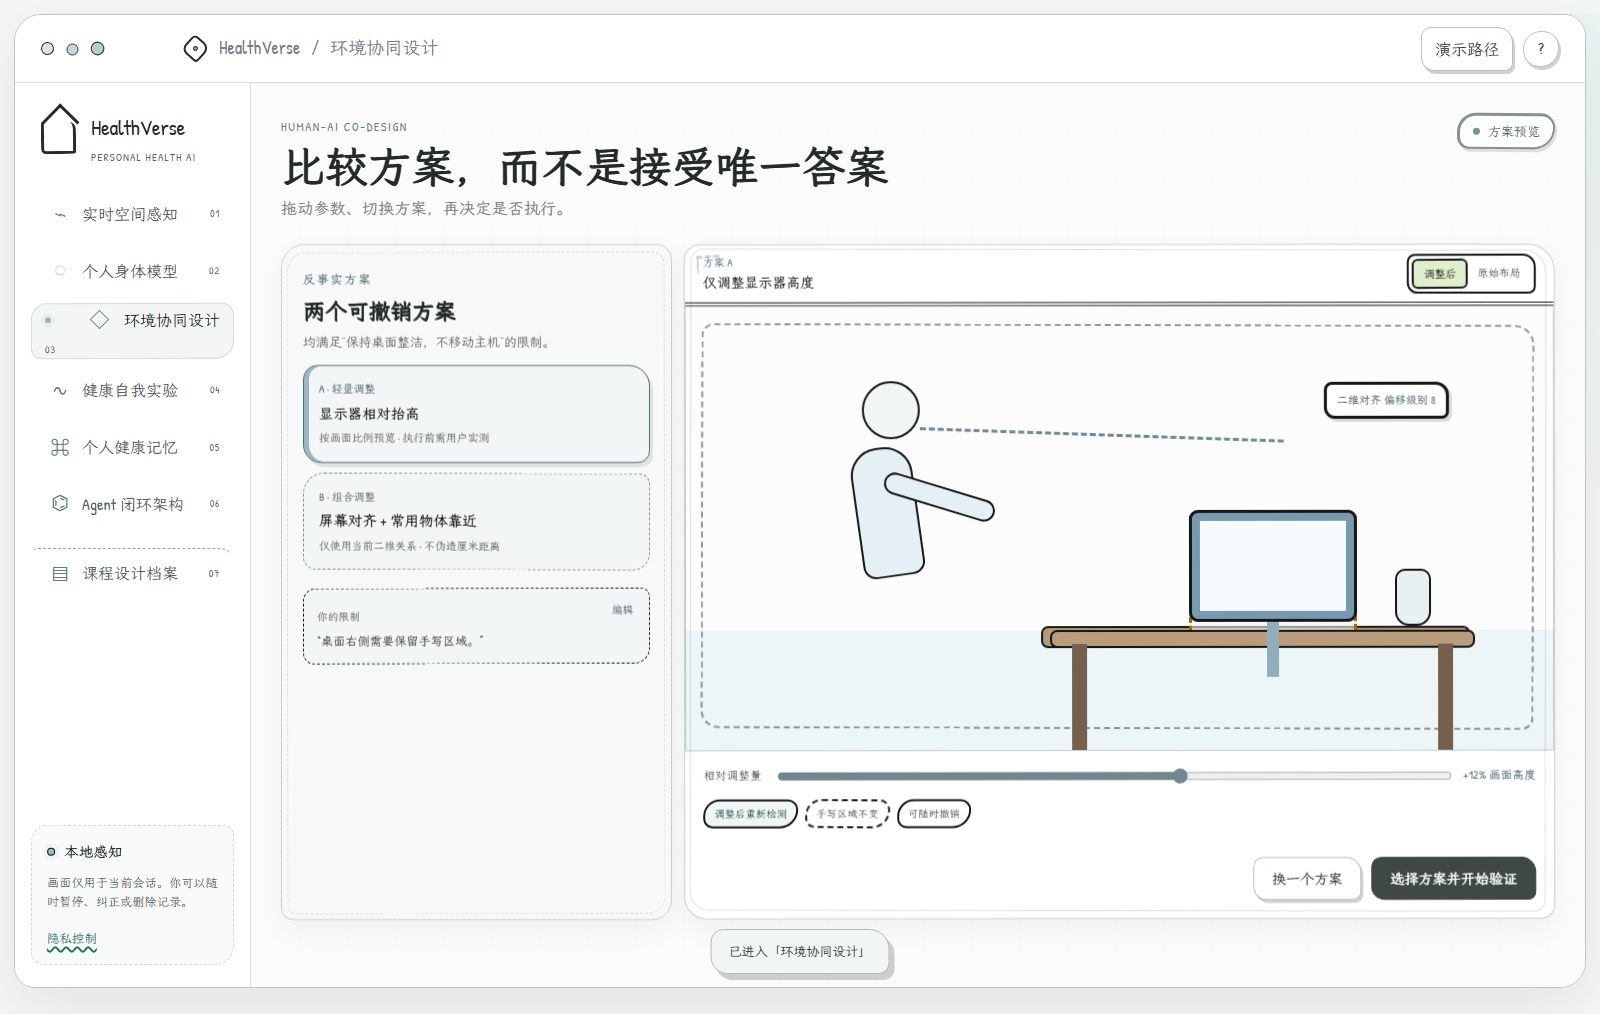
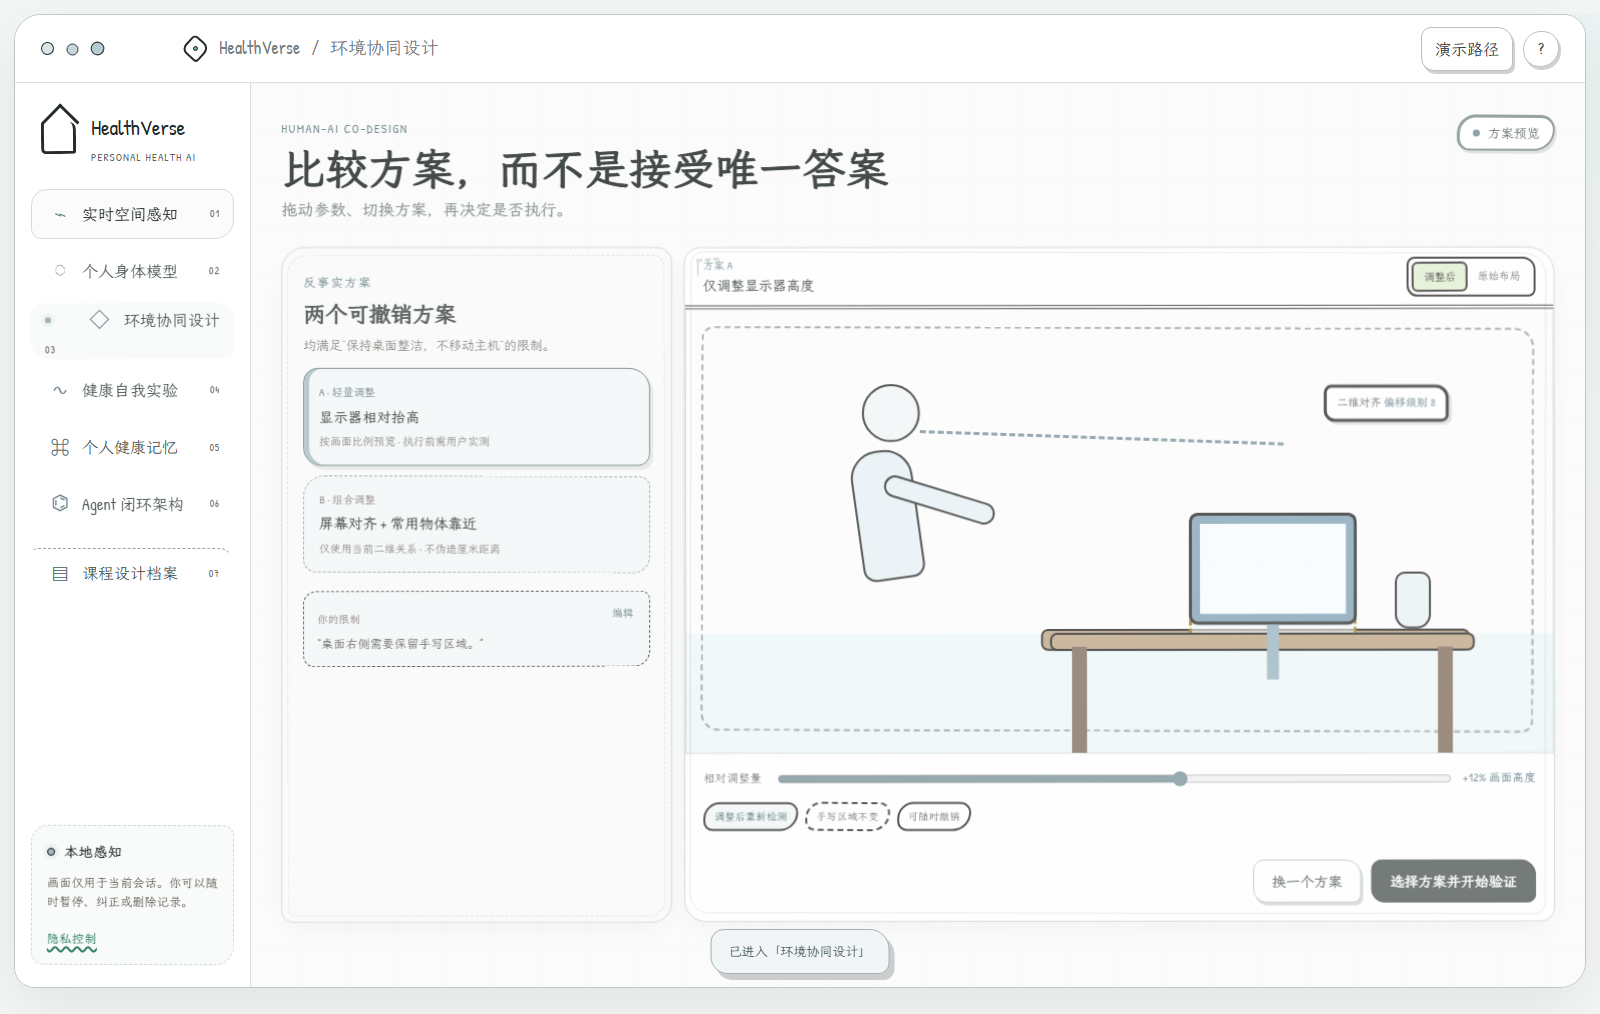
Unify runtime feedback colors and bust stale cache

diff --git a/src/main/webapp/assets/css/healthverse.css b/src/main/webapp/assets/css/healthverse.css
@@ -2853,3 +2853,23 @@ body {
   background: #f1f5f6;
   color: #536b72;
 }
+
+/* One palette, including runtime HUD, consent note and transient feedback. */
+.vision-hud span,
+.vision-hud span:nth-child(1),
+.vision-hud span:nth-child(2),
+.vision-hud span:nth-child(3),
+.vision-hud span:nth-child(4),
+.vision-hud span:nth-child(5) {
+  background: #f1f5f6 !important;
+  color: #536b72;
+}
+.agent .consent-note,
+.toast {
+  border-color: #9fb3ba;
+  background: #f1f5f6;
+  color: #43585f;
+}
+.agent .consent-note { border-left-color: #9fb3ba; }
+.agent .consent-note span,
+.toast.show { color: #43585f; }
